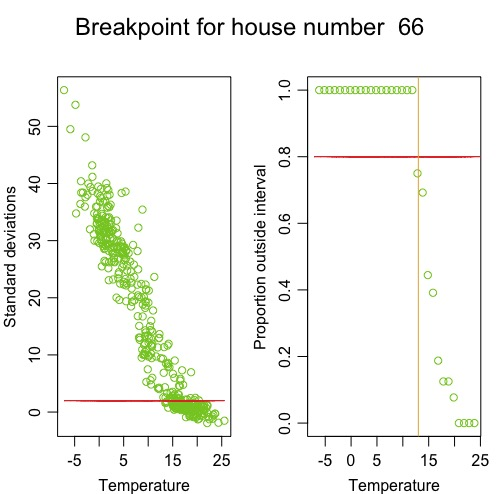
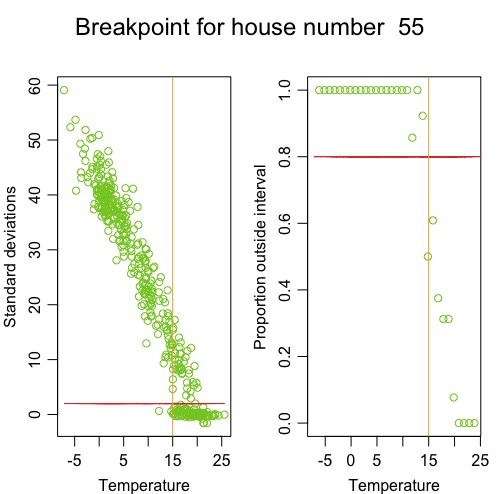
Segment afsnit

diff --git a/latex/template/chapters/Exploratory.tex b/latex/template/chapters/Exploratory.tex
@@ -77,17 +77,47 @@ is sometimes as high as 20 degrees, which is not desirable.
 
 \subsection{Segmentation by significant deviations}
 In the third approach, the data points are examined from high temperatures to low. First, all data points from
-above 20 degrees are assumed to belong to the distribution without heating. Using this data set, an interval
-of two standard deviations is calculated. For each degree interval, starting from above and moving down, all
-data points in that interval are examined. If more than 80\% of them are outside the two standard deviations,
-the upper bound of that degree interval is used as the segmentation breakpoint.
+above 20 degrees are assumed to belong to the distribution without heating. If a data point is more than two
+standard deviations above from the mean of this distribution, it is assumed to belong to the distribution with
+heating. Now the data points are divided by temperature into one degree intervals. For each interval, starting
+from above and moving down, all data points in that interval are examined. The last interval where at least
+20\% of the data points are less than two standard deviations away, is chosen as the breakpoint of that house.
+An example of the approach is seen on figure \ref{fig: Breakpoint}. On the left the data points are plotted with
+standard deviations on the y-axis. The red line highlights the two standard devations. On the right there is a plot
+showing how many of the data points that are outside the interval. Here, the red line shows the 80\% that determine
+the breakpoint. The orange line shows the breakpoint.
+
+This model is more robust than the others. It is more selective than the first, and provides a good way to set the
+breakpoint on the correct side of the mentioned "tail" that may occur at temperatures both with and without heating.
+When comparing figure \ref{fig: Breakpoint} to figure \ref{fig: Consumption-PW}, one can see that this method sets
+the breakpoint a bit lower, removing more points without heating. If the consumption data behaves badly, and chunks
+of datapoints are low enough to be within the two standard deviation, then a lot of data can potentially be removed,
+and there might be too little data left.
+
+Until now the focus has been to find a breakpoint for every individual house. But it might be preferable to have a
+single breakpoint all houses. This way the segmentation becomes more robust to houses with unforseen heat consumption.
+Figure \ref{fig: AlphaHist} shows a histogram of the breakpoint values for every house in the data set. The global
+breakpoint should be in the low end of the scale. It is better to remove data points that could have been used, than
+to include too many points that belong to a different distribution with a different variation, which could make the
+assumptions of the model worse. It would not be good to choose the minimum breakpoint, since that would be very
+vulnerable. A single house with a very low breakpoint might make the model bad for all the other houses. So the
+breakpoint that is chosen is the first quantile. As it is shown on the figure, this is $12$ degrees. All models in
+the following sections will only be considering data where the temperature less than or equal to $12$ degrees.
 
 
 \begin{figure}
     \centering
     \includegraphics[width=0.8\textwidth]{../../../figures/Breakpoint.jpeg}
-    \caption{Piece-wise optimization of the consumption. The red line is the regression line and the green line is the confidence interval.}
-    \label{fig: Consumption-PW}
+    \caption{An illustration of how the breakpoint is found using segmentation by significant deviations. On the left figure the line illustrates two standard deviations from the high temperature distribution.
+    The right figure shows how many points are outside the two standard deviations. The last point below 80\% is the chosen breakpoint.}
+    \label{fig: Breakpoint}
+\end{figure}
+
+\begin{figure}
+    \centering
+    \includegraphics[width=0.8\textwidth]{../../../figures/AlphaHist.jpeg}
+    \caption{A histogram of the alpha values for every house in the third segmentation method. The first quantile is chosen as the overall breakpoint. It is 12 degrees, illustrated by the green line}
+    \label{fig: AlphaHist}
 \end{figure}
 
 
